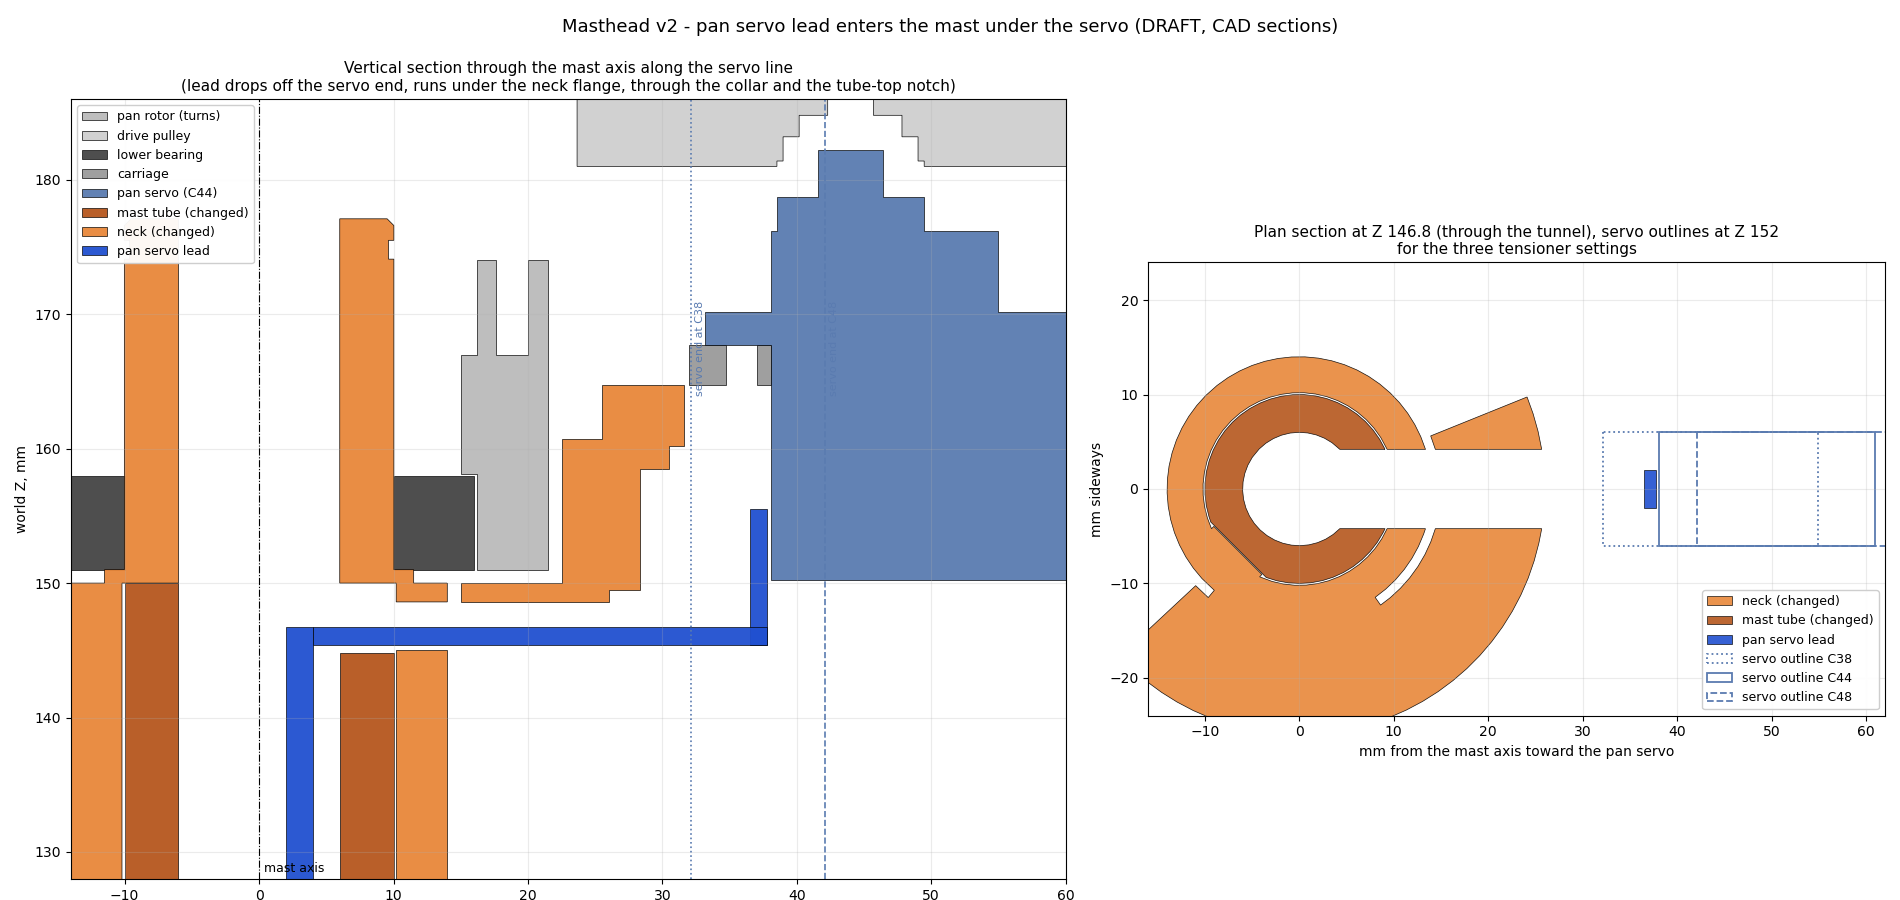
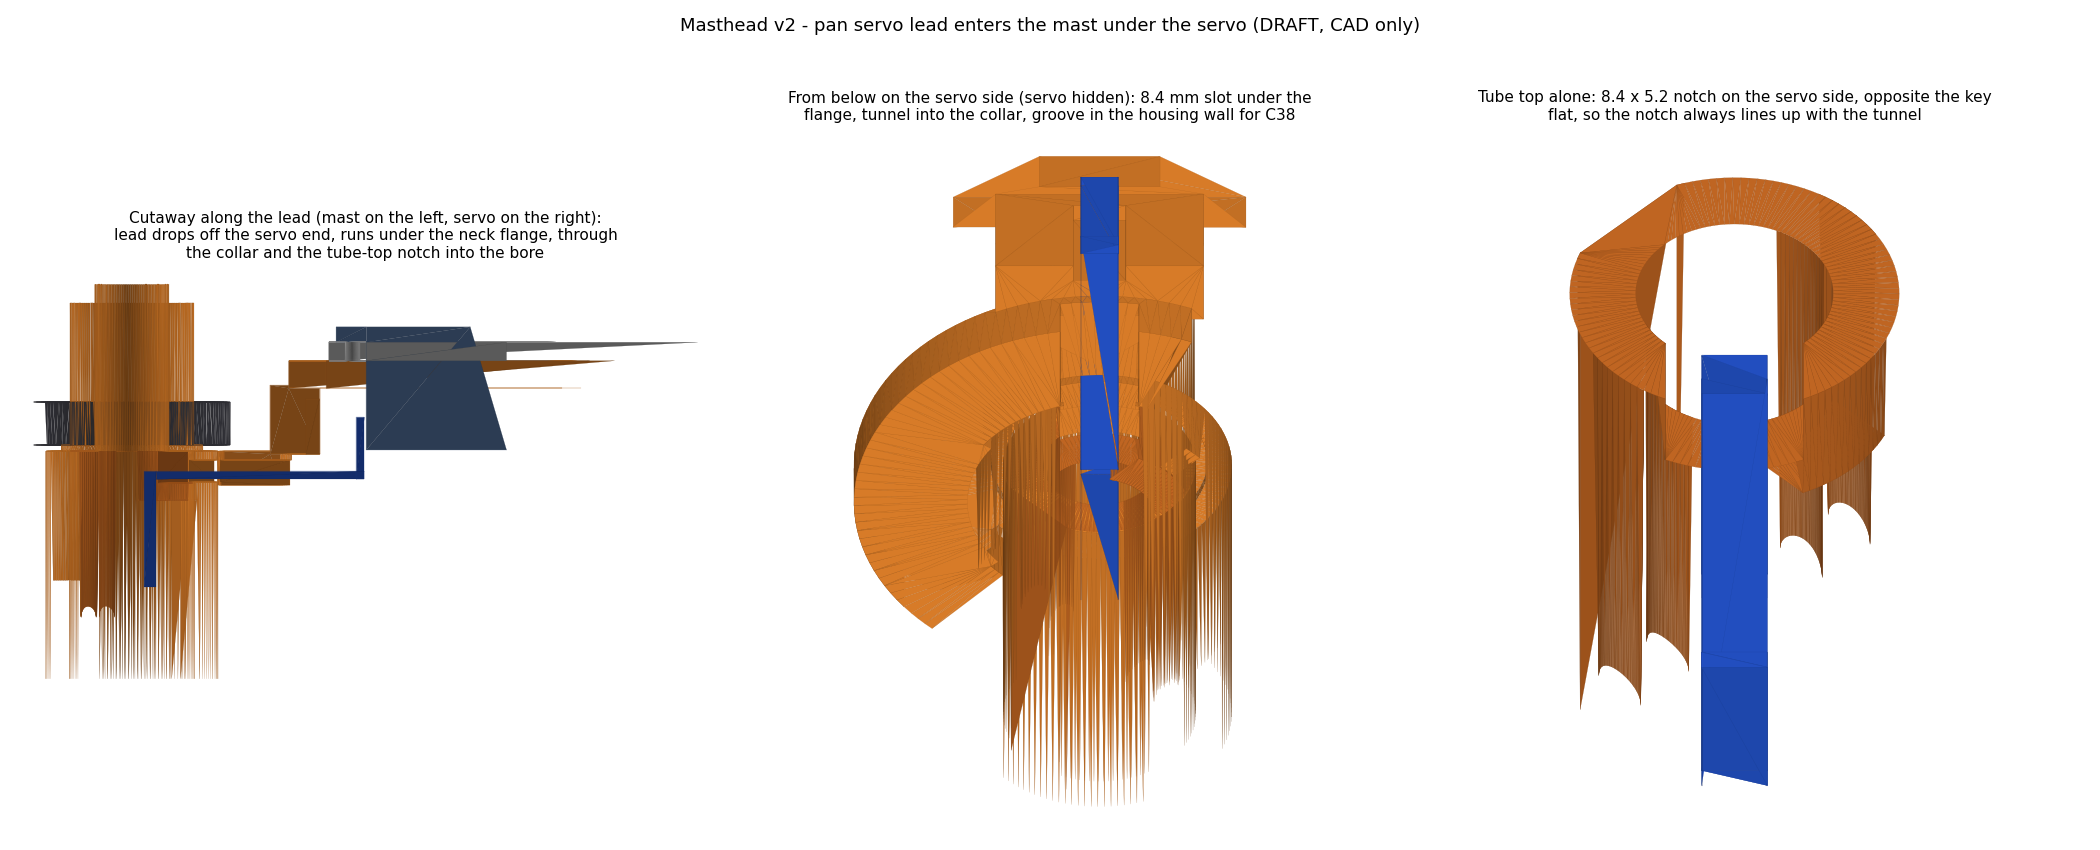
PCB floor: picture of the board space from the review viewpoint

diff --git a/cad/head/v2-mast-20261028/pcb-floor-20261030/render_pcb_floor.py b/cad/head/v2-mast-20261028/pcb-floor-20261030/render_pcb_floor.py
@@ -9,7 +9,10 @@ RD = HERE / 'render'
 NAMES = {'Tilt_Yoke': 'yoke', 'Pan_Raised_Pedestal': 'grey', 'Head_Distro_PCB_Placeholder': 'pcb',
          'M2_Insert_A': 'brass', 'M2_Insert_B': 'brass', 'M2_Insert_C': 'brass', 'Tilt_Lead_Route': 'lead',
          'Yoke_Bolt_Head_M3': 'dark', 'Neck_Main': 'yoke', 'Mast_Tube_v2': 'tube', 'Pan_Lead_Route': 'lead',
-         'SG90_Pan_Reference': 'servo', 'Pan_Servo_Carriage': 'grey', 'Pan_Bearing_Lower': 'dark', 'Pan_Retainer': 'grey', 'SG90_Tilt_Reference': 'servo', 'Tilt_Pivot_Bolt': 'dark',
+         'SG90_Pan_Reference': 'servo', 'Pan_Servo_Carriage': 'grey', 'Pan_Bearing_Lower': 'dark',
+         'Rear_Display_Frame': 'head', 'GH44_Tilt_Receiver': 'head', 'GH44_Dual_Carrier': 'head', 'Camera_Tray': 'head',
+         'Camera_Cover': 'head', 'ToF_Sensor_Frame': 'head', 'ST7789_Board': 'head', 'ESP32_CAM_Reference': 'head',
+         'Tilt_Horn_Reference': 'head', 'Pan_Drive_Pulley': 'grey', 'Pan_Belt_Reference': 'dark', 'Pan_Retainer': 'grey', 'SG90_Tilt_Reference': 'servo', 'Tilt_Pivot_Bolt': 'dark',
          'PCB_Part_Height_Zone_1': 'zone', 'PCB_Part_Height_Zone_2': 'zone', 'PCB_Part_Height_Zone_3': 'zone',
          'PCB_Part_Height_Zone_4': 'zone'}
 
@@ -28,7 +31,7 @@ matplotlib.use('Agg')
 import matplotlib.pyplot as plt
 from matplotlib.collections import PolyCollection
 COL = {'yoke': (0.96, 0.55, 0.18), 'grey': (0.72, 0.72, 0.72), 'pcb': (0.10, 0.55, 0.25), 'brass': (0.85, 0.68, 0.25),
-       'lead': (0.15, 0.35, 0.85), 'dark': (0.25, 0.25, 0.28), 'servo': (0.35, 0.48, 0.67), 'zone': (0.98, 0.85, 0.20), 'tube': (0.85, 0.45, 0.15)}
+       'lead': (0.15, 0.35, 0.85), 'dark': (0.25, 0.25, 0.28), 'servo': (0.35, 0.48, 0.67), 'zone': (0.98, 0.85, 0.20), 'tube': (0.85, 0.45, 0.15), 'head': (0.55, 0.60, 0.68)}
 
 
 def read_stl(p):
@@ -41,7 +44,7 @@ def read_stl(p):
     return a['v'].reshape(-1, 3, 3).astype(float)
 
 
-def draw(ax, names, view, up=(0, 0, 1), light=(-0.4, -0.5, 0.8), zone_alpha=0.35, clip=None):
+def draw(ax, names, view, up=(0, 0, 1), light=(-0.4, -0.5, 0.8), zone_alpha=0.35, clip=None, head_alpha=1.0):
     view = np.array(view, float); view /= np.linalg.norm(view)
     upv = np.array(up, float); right = np.cross(view, upv); right /= np.linalg.norm(right); upv = np.cross(right, view)
     L = np.array(light, float); L /= np.linalg.norm(L)
@@ -59,7 +62,7 @@ def draw(ax, names, view, up=(0, 0, 1), light=(-0.4, -0.5, 0.8), zone_alpha=0.35
         nrm[ok] /= ln[ok, None]
         shade = 0.45 + 0.55 * np.abs(nrm @ L)
         base = np.array(COL[NAMES[n]])
-        a = zone_alpha if NAMES[n] == 'zone' else 1.0
+        a = zone_alpha if NAMES[n] == 'zone' else (head_alpha if NAMES[n] == 'head' else 1.0)
         c = np.clip(base[None, :] * shade[:, None], 0, 1)
         c = np.concatenate([c, np.full((len(c), 1), a)], axis=1)
         P.append(np.stack([tri[ok] @ right, tri[ok] @ upv], axis=-1)); C.append(c[ok]); D.append((tri[ok] @ view).mean(axis=1))
@@ -111,4 +114,21 @@ axs[1].set_title('From below on the servo side (servo hidden): 8.4 mm slot under
 draw(axs[2], ['Mast_Tube_v2', 'Pan_Lead_Route'], (0.5, 0.5, -0.7), clip=lambda c: zwin(c, 128, 160))
 axs[2].set_title('Tube top alone: 8.4 x 5.2 notch on the servo side, opposite the key\nflat, so the notch always lines up with the tunnel', fontsize=11)
 fig.suptitle('Masthead v2 - pan servo lead enters the mast under the servo (DRAFT, CAD only)', fontsize=13)
-fig.tight_layout(rect=(0, 0, 1, 0.95)); fig.savefig(HERE / 'pan_lead_review.png', dpi=100); print('ok')
+fig.tight_layout(rect=(0, 0, 1, 0.95)); fig.savefig(HERE / 'pan_lead_review.png', dpi=100)
+
+HEAD = ['Rear_Display_Frame', 'GH44_Tilt_Receiver', 'GH44_Dual_Carrier', 'Camera_Tray', 'Camera_Cover', 'ToF_Sensor_Frame',
+        'ST7789_Board', 'ESP32_CAM_Reference', 'Tilt_Horn_Reference', 'SG90_Tilt_Reference', 'Tilt_Pivot_Bolt']
+BASEP = ['Pan_Raised_Pedestal', 'Tilt_Yoke', 'Yoke_Bolt_Head_M3', 'Tilt_Lead_Route', 'Head_Distro_PCB_Placeholder',
+         'M2_Insert_A', 'M2_Insert_B', 'M2_Insert_C', 'Pan_Drive_Pulley', 'Pan_Belt_Reference']
+ZON = ['PCB_Part_Height_Zone_1', 'PCB_Part_Height_Zone_2', 'PCB_Part_Height_Zone_3', 'PCB_Part_Height_Zone_4']
+jim = (0.15, -0.55, -0.82)          # about Jim's screenshot: from above on the screen side, camera case on the left
+top = lambda c: c[:, 2] > 176
+fig, axs = plt.subplots(1, 2, figsize=(20, 10))
+draw(axs[0], BASEP + HEAD, jim, clip=top, head_alpha=0.28)
+axs[0].set_title('Your view, head see-through: the green plate IS the placeholder board, flush in the yoke floor\n'
+                 'between the two yoke columns, right under the head', fontsize=11)
+draw(axs[1], BASEP + ZON + ['SG90_Tilt_Reference', 'Tilt_Pivot_Bolt'], jim, clip=top, zone_alpha=0.45)
+axs[1].set_title('Head hidden. Yellow = tallest parts that clear the head at every tilt angle:\n'
+                 +', '.join('%s %d mm' % (k.split(' ')[0].replace('_', ' '), v) for k, v in H.items()), fontsize=11)
+fig.suptitle('Where the distro PCB is and how much room it has (CAD, draft)', fontsize=13)
+fig.tight_layout(rect=(0, 0, 1, 0.95)); fig.savefig(HERE / 'pcb_space_from_jims_view.png', dpi=100); print('ok')
